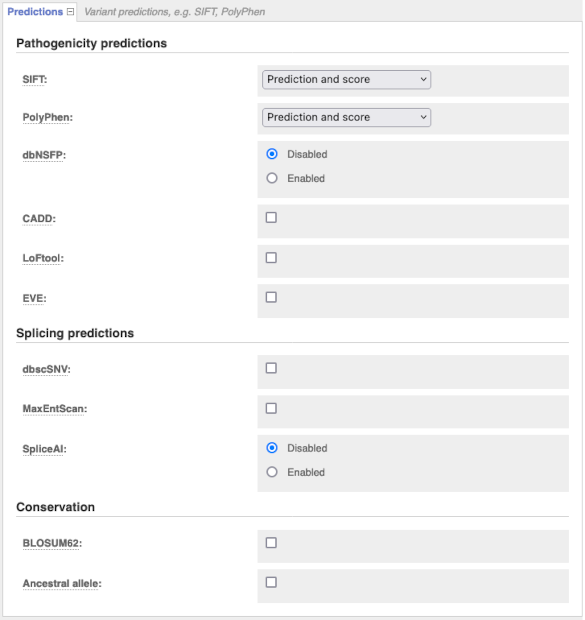
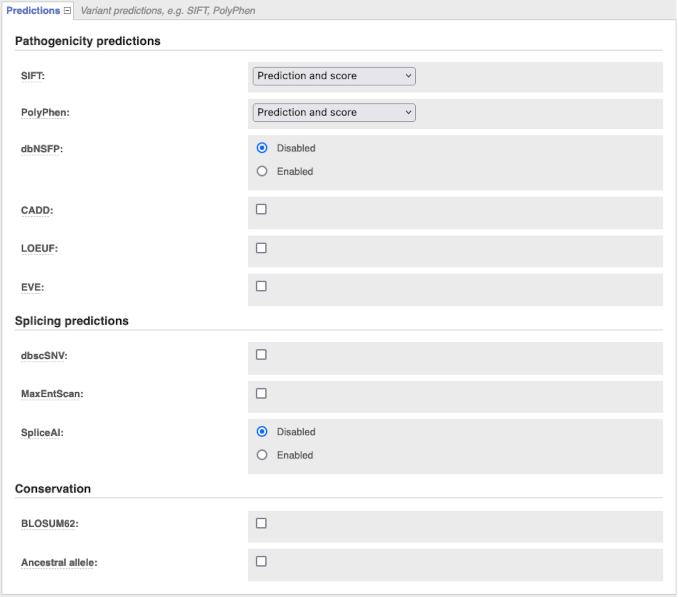
Replace plugin LoFtool by LOEUF (#634)
* Replace LoFtool by LOEUF

* Add LOEUF options

* LOEUF point to grch38 file

* Remove loftool from vep results

* Update image

* Match LOEUF scores by transcript

* Match by gene

* update image to include missing polyphen

diff --git a/docs/htdocs/info/docs/tools/vep/script/vep_plugins.html b/docs/htdocs/info/docs/tools/vep/script/vep_plugins.html
@@ -108,7 +108,7 @@
 <tr class="bg2 plugin_row" data-category="variant_data"><td><div style="font-weight:bold"><a rel="external" href="https://github.com/Ensembl/VEP_plugins/blob/release/[[SPECIESDEFS::ENSEMBL_VERSION]]/LD.pm">LD</a></div><div style="margin-top:6px"><small>Linkage Disequilibrium</small></div></td><td><p>This is a plugin for the Ensembl Variant Effect Predictor (VEP) that<br />finds variants in linkage disequilibrium with any overlapping existing <br />variants from the Ensembl variation databases. You can configure the <br />population used to calculate the r2 value, and the r2 cutoff used by <br />passing arguments to the plugin via the VEP command line (separated <br />by commas). This plugin adds a single new entry to the Extra column <br />with a comma-separated list of linked variant IDs and the associated <br />r2 values, e.g.: ... <a class="button" href="#ld" style="padding:3px 8px 0px 8px !important;height:18px" onclick="show_hide('ld');" id="a_ld">more</a></p><div id="div_ld" style="display:none;"><p>LinkedVariants=rs123:0.879,rs234:0.943</p><p>If no arguments are supplied, the default population used is the CEU<br />sample from the 1000 Genomes Project phase 3, and the default r2<br />cutoff used is 0.8.</p><p>WARNING: Calculating LD is a relatively slow procedure, so this will <br />slow VEP down considerably when running on large numbers of<br />variants. Consider running vep followed by filter_vep to get a smaller<br />input set:</p><p><pre class="code sh_sh">   ./vep -i input.vcf -cache -vcf -o input_vep.vcf<br /></pre><pre class="code sh_sh">   ./filter_vep -i input_vep.vcf -filter "Consequence is missense_variant" > input_vep_filtered.vcf<br /></pre><pre class="code sh_sh">   ./vep -i input_vep_filtered.vcf -cache -plugin LD<br /></pre></p></div></td><td><div class="vdoc_dtype_count" style="float:left;padding:2px 6px;cursor:default;background-color:#B22222">Variant data</div></td><td>-</td><td>Ensembl</td></tr>
 <tr class="bg1 plugin_row" data-category="look_up"><td><div style="font-weight:bold"><a rel="external" href="https://github.com/Ensembl/VEP_plugins/blob/release/[[SPECIESDEFS::ENSEMBL_VERSION]]/LocalID.pm">LocalID</a></div></td><td><p>The LocalID plugin allows you to use variant IDs as input without making a database connection. ... <a class="button" href="#localid" style="padding:3px 8px 0px 8px !important;height:18px" onclick="show_hide('localid');" id="a_localid">more</a></p><div id="div_localid" style="display:none;"><p>Requires sqlite3.</p><p>A local sqlite3 database is used to look up variant IDs; this is generated either from Ensembl's<br />public database (very slow, but includes synonyms), or from a VEP cache file (faster, excludes<br />synonyms).</p><p>NB this plugin is NOT compatible with the ensembl-tools variant_effect_predictor.pl version of VEP.</p></div></td><td><div class="vdoc_dtype_count" style="float:left;padding:2px 6px;cursor:default;background-color:#006400">Look up</div></td><td>-</td><td>Ensembl</td></tr>
 <tr class="bg2 plugin_row" data-category="pathogenicity_predictions"><td><div style="font-weight:bold"><a rel="external" href="https://github.com/Ensembl/VEP_plugins/blob/release/[[SPECIESDEFS::ENSEMBL_VERSION]]/LOEUF.pm">LOEUF</a></div></td><td><p>This is a plugin for the Ensembl Variant Effect Predictor (VEP) that<br />adds the LOEUF scores to VEP output. LOEUF stands for the "loss-of-function <br />observed/expected upper bound fraction."  ... <a class="button" href="#loeuf" style="padding:3px 8px 0px 8px !important;height:18px" onclick="show_hide('loeuf');" id="a_loeuf">more</a></p><div id="div_loeuf" style="display:none;"><p>The score can be added matching by either transcript or gene.<br />When matched by gene: <br />If multiple transcripts are available for a gene, the most severe score is reported.</p><p>NB: The plugin currently does not add the score for downstream_gene_variant and upstream_gene_variant </p><p>Please cite the LOEUF publication alongside the VEP if you use this resource:<br />https://www.ncbi.nlm.nih.gov/pmc/articles/PMC7334197/</p><p>LOEUF scores can be downloaded from<br />https://www.ncbi.nlm.nih.gov/pmc/articles/PMC7334197/bin/41586_2020_2308_MOESM4_ESM.zip</p><p>For GRCh37:</p><p>These files can be tabix-processed by:<br />Unzip 41586_2020_2308_MOESM4_ESM.zip<br />cd supplement<br />zcat supplementary_dataset_11_full_constraint_metrics.tsv.gz | (head -n 1 && tail -n +2  | sort -t$'\t' -k 76,76 -k 77,77n ) > loeuf_temp.tsv<br />sed '1s/.*/#&/' loeuf_temp.tsv > loeuf_dataset.tsv<br />bgzip loeuf_dataset.tsv<br />tabix -f -s 76 -b 77 -e 78 loeuf_dataset.tsv.gz</p><p>The tabix utility must be installed in your path to use this plugin.</p></div></td><td><div class="vdoc_dtype_count" style="float:left;padding:2px 6px;cursor:default;background-color:#1E90FF">Pathogenicity predictions</div></td><td><a href="https://metacpan.org/pod/Scalar::Util" rel="external">Scalar::Util</a> qw(looks_like_number)</td><td>Ensembl</td></tr>
-<tr class="bg1 plugin_row" data-category="pathogenicity_predictions"><td><div style="font-weight:bold"><a rel="external" href="https://github.com/Ensembl/VEP_plugins/blob/release/[[SPECIESDEFS::ENSEMBL_VERSION]]/LoFtool.pm">LoFtool</a></div><div style="margin-top:6px"><small>Loss-of-function</small></div></td><td><p>Add LoFtool scores to the VEP output. ... <a class="button" href="#loftool" style="padding:3px 8px 0px 8px !important;height:18px" onclick="show_hide('loftool');" id="a_loftool">more</a></p><div id="div_loftool" style="display:none;"><p>LoFtool provides a rank of genic intolerance and consequent<br />susceptibility to disease based on the ratio of Loss-of-function (LoF)<br />to synonymous mutations for each gene in 60,706 individuals from ExAC,<br />adjusting for the gene de novo mutation rate and evolutionary protein<br />conservation. The lower the LoFtool gene score percentile the most<br />intolerant is the gene to functional variation. For more details please see<br />(Fadista J et al. 2017), PMID:27563026.<br />The authors would like to thank the Exome Aggregation Consortium and<br />the groups that provided exome variant data for comparison. A full<br />list of contributing groups can be found at http://exac.broadinstitute.org/about.</p><p>The LoFtool_scores.txt file is found alongside the plugin in the<br />VEP_plugins GitHub repo.</p><p>To use another scores file, add it as a parameter i.e.</p><p><pre class="code sh_sh">  ./vep -i variants.vcf --plugin LoFtool,scores_file.txt<br /></pre></p></div></td><td><div class="vdoc_dtype_count" style="float:left;padding:2px 6px;cursor:default;background-color:#1E90FF">Pathogenicity predictions</div></td><td><a href="https://metacpan.org/pod/DBI" rel="external">DBI</a></td><td>Ensembl</td></tr>
+<tr class="bg1 plugin_row" data-category="pathogenicity_predictions"><td><div style="font-weight:bold"><a rel="external" href="https://github.com/Ensembl/VEP_plugins/blob/release/[[SPECIESDEFS::ENSEMBL_VERSION]]/LOEUF.pm">LOEUF</a></div><div style="margin-top:6px"><small>Loss-of-function</small></div></td><td><p>Add LOEUF scores to the VEP output. ... <a class="button" href="#loeuf" style="padding:3px 8px 0px 8px !important;height:18px" onclick="show_hide('loeuf');" id="a_loeuf">more</a></p><div id="div_loeuf" style="display:none;"><p>LOEUF stands for the 'loss-of-function observed/expected upper bound fraction'. This plugin adds constraint scores derived from gnomAD to VEP. For more details please see<br />(Karczewski KJ et al. 2020), PMID:32461654.<br /></p><p><pre class="code sh_sh">  ./vep -i variants.vcf --plugin LOEUF,file=loeuf_dataset.tsv.gz,match_by=gene<br /></pre></p></div></td><td><div class="vdoc_dtype_count" style="float:left;padding:2px 6px;cursor:default;background-color:#1E90FF">Pathogenicity predictions</div></td><td><a href="https://metacpan.org/pod/DBI" rel="external">DBI</a></td><td>Ensembl</td></tr>
 <tr class="bg2 plugin_row" data-category="variant_data"><td><div style="font-weight:bold"><a rel="external" href="https://github.com/Ensembl/VEP_plugins/blob/release/[[SPECIESDEFS::ENSEMBL_VERSION]]/LOVD.pm">LOVD</a></div><div style="margin-top:6px"><small>Leiden Open Variation Database</small></div></td><td><p>A VEP plugin that retrieves LOVD variation data from http://www.lovd.nl/. ... <a class="button" href="#lovd" style="padding:3px 8px 0px 8px !important;height:18px" onclick="show_hide('lovd');" id="a_lovd">more</a></p><div id="div_lovd" style="display:none;"><p>Please be aware that LOVD is a public resource of curated variants, therefore<br />please respect this resource and avoid intensive querying of their databases<br />using this plugin, as it will impact the availability of this resource for<br />others.</p></div></td><td><div class="vdoc_dtype_count" style="float:left;padding:2px 6px;cursor:default;background-color:#B22222">Variant data</div></td><td><a href="https://metacpan.org/pod/LWP::UserAgent" rel="external">LWP::UserAgent</a></td><td>Ensembl</td></tr>
 <tr class="bg1 plugin_row" data-category="phenotype_data_and_citations"><td><div style="font-weight:bold"><a rel="external" href="https://github.com/Ensembl/VEP_plugins/blob/release/[[SPECIESDEFS::ENSEMBL_VERSION]]/Mastermind.pm">Mastermind</a></div></td><td><p>This is a plugin for the Ensembl Variant Effect Predictor (VEP) that<br />uses the Mastermind Genomic Search Engine (https://www.genomenon.com/mastermind)<br />to report variants that have clinical evidence cited in the medical literature. <br />It is available for both GRCh37 and GRCh38. ... <a class="button" href="#mastermind" style="padding:3px 8px 0px 8px !important;height:18px" onclick="show_hide('mastermind');" id="a_mastermind">more</a></p><div id="div_mastermind" style="display:none;"><p>Please cite the Mastermind publication alongside the VEP if you use this resource:<br />https://www.frontiersin.org/article/10.3389/fgene.2020.577152</p><p>Running options:<br />The plugin has multiple parameters, the first one is expected to be the file name path <br />which can be followed by 3 optional flags.<br />Default: the plugin matches the citation data with the specific mutation.<br />Using first flag '1': returns the citations for all mutations/transcripts.   <br />Using the second flag '1': only returns the Mastermind variant identifier(s).<br />Using the third flag '1': also returns the Mastermind URL.</p><p>Output: <br />The output includes three unique counts 'MMCNT1, MMCNT2, MMCNT3' and one identifier 'MMID3'<br />to be used to build an URL which shows all articles from MMCNT3.</p><p>'MMCNT1' is the count of Mastermind articles with cDNA matches for a specific variant;<br />'MMCNT2' is the count of Mastermind articles with variants either explicitly matching at<br />the cDNA level or given only at protein level;<br />'MMCNT3' is the count of Mastermind articles including other DNA-level variants resulting<br />in the same amino acid change;<br />'MMID3' is the Mastermind variant identifier(s), as gene:key. Link to the Genomenon Mastermind Genomic Search Engine;</p><p>To build the URL, substitute the 'gene:key' in the following link with the value from MMID3:<br />https://mastermind.genomenon.com/detail?mutation=gene:key</p><p>If the third flag is used then the built URL is returned and it's identified by 'URL'.</p><p>More information can be found at: https://www.genomenon.com/cvr/</p><p>The following steps are necessary before running this plugin:</p><p>Download and Registry (free): <br />https://www.genomenon.com/cvr/ </p><p>GRCh37 VCF:<br />unzip mastermind_cited_variants_reference-XXXX.XX.XX-grch37-vcf.zip<br />bgzip mastermind_cited_variants_reference-XXXX.XX.XX-GRCh37-vcf<br />tabix -p vcf mastermind_cited_variants_reference-XXXX.XX.XX.GRCh37-vcf.gz</p><p>GRCh38 VCF:<br />unzip mastermind_cited_variants_reference-XXXX.XX.XX-grch38-vcf.zip<br />bgzip mastermind_cited_variants_reference-XXXX.XX.XX-GRCh38-vcf<br />tabix -p vcf mastermind_cited_variants_reference-XXXX.XX.XX.GRCh38-vcf.gz</p><p>The plugin can then be run as default:<br /><pre class="code sh_sh"> ./vep -i variations.vcf --plugin Mastermind,/path/to/mastermind_cited_variants_reference-XXXX.XX.XX.GRChXX-vcf.gz<br /></pre><br />or with an option to not filter by mutations (first flag): <br /><pre class="code sh_sh"> ./vep -i variations.vcf --plugin Mastermind,/path/to/mastermind_cited_variants_reference-XXXX.XX.XX.GRChXX-vcf.gz,1 <br /></pre><br />or with an option to only return 'MMID3' e.g. the Mastermind variant identifier as gene:key (second flag):<br /><pre class="code sh_sh"> ./vep -i variations.vcf --plugin Mastermind,/path/to/mastermind_cited_variants_reference-XXXX.XX.XX.GRChXX-vcf.gz,0,1<br /></pre><br />or with an option to also return the Mastermind URL (third flag):<br /><pre class="code sh_sh"> ./vep -i variations.vcf --plugin Mastermind,/path/to/mastermind_cited_variants_reference-XXXX.XX.XX.GRChXX-vcf.gz,0,0,1<br /></pre><br />Note: While running this plugin as default, i.e. filtering by mutation, if a variant doesn't affect <br />the protein sequence, the citation data can be appended to a transcript with different consequence.<br />Example<br />VEP: upstream_gene_variant<br />Mastermind: intronic<br />VEP output: var_1|1:154173185-154173187|C|ENSG00000143549|ENST00000368545|Transcript|upstream_gene_variant|<br />-|-|-|-|-|-|IMPACT=MODIFIER;DISTANCE=508;STRAND=-1;Mastermind_MMID3=TPM3:E62int;Mastermind_counts=1|1|1;</p></div></td><td><div class="vdoc_dtype_count" style="float:left;padding:2px 6px;cursor:default;background-color:#BB7722">Phenotype data and citations</div></td><td>-</td><td>Ensembl</td></tr>
 <tr class="bg2 plugin_row" data-category="splicing_predictions"><td><div style="font-weight:bold"><a rel="external" href="https://github.com/Ensembl/VEP_plugins/blob/release/[[SPECIESDEFS::ENSEMBL_VERSION]]/MaxEntScan.pm">MaxEntScan</a></div></td><td><p>This is a plugin for the Ensembl Variant Effect Predictor (VEP) that<br />runs MaxEntScan (http://hollywood.mit.edu/burgelab/maxent/Xmaxentscan_scoreseq.html)<br />to get splice site predictions. ... <a class="button" href="#maxentscan" style="padding:3px 8px 0px 8px !important;height:18px" onclick="show_hide('maxentscan');" id="a_maxentscan">more</a></p><div id="div_maxentscan" style="display:none;"><p>The plugin copies most of the code verbatim from the score5.pl and score3.pl<br />scripts provided in the MaxEntScan download. To run the plugin you must get and<br />unpack the archive from http://hollywood.mit.edu/burgelab/maxent/download/; the path<br />to this unpacked directory is then the param you pass to the --plugin flag.</p><p>The plugin executes the logic from one of the scripts depending on which<br />splice region the variant overlaps:</p><p>score5.pl : last 3 bases of exon    --> first 6 bases of intron<br />score3.pl : last 20 bases of intron --> first 3 bases of exon</p><p>The plugin reports the reference, alternate and difference (REF - ALT) maximum<br />entropy scores.</p><p>If 'SWA' is specified as a command-line argument, a sliding window algorithm<br />is applied to subsequences containing the reference and alternate alleles to<br />identify k-mers with the highest donor and acceptor splice site scores. To assess<br />the impact of variants, reference comparison scores are also provided. For SNVs,<br />the comparison scores are derived from sequence in the same frame as the highest<br />scoring k-mers containing the alternate allele. For all other variants, the<br />comparison scores are derived from the highest scoring k-mers containing the<br />reference allele. The difference between the reference comparison and alternate<br />scores (SWA_REF_COMP - SWA_ALT) are also provided.</p><p>If 'NCSS' is specified as a command-line argument, scores for the nearest<br />upstream and downstream canonical splice sites are also included.</p><p>By default, only scores are reported. Add 'verbose' to the list of command-<br />line arguments to include the sequence output associated with those scores.</p></div></td><td><div class="vdoc_dtype_count" style="float:left;padding:2px 6px;cursor:default;background-color:#FF0000">Splicing predictions</div></td><td><a href="https://metacpan.org/pod/Digest::MD5" rel="external">Digest::MD5</a> qw(md5_hex)</td><td>Ensembl</td></tr>

diff --git a/docs/htdocs/info/docs/tools/vep/online/input.html b/docs/htdocs/info/docs/tools/vep/online/input.html
@@ -405,11 +405,10 @@ enter your data and alter various options.</p>
                   href="https://github.com/Ensembl/VEP_plugins/blob/release/[[SPECIESDEFS::ENSEMBL_VERSION]]/dbNSFP.pm">dbNSFP</a>.</p>
                 </li>
                 
-                <li><b>LoFtool</b>
-                  <p>Provides a rank of genic intolerance and consequent susceptibility to 
-                  disease based on the ratio of Loss-of-function (LoF)to synonymous mutations.
+                <li><b>LOEUF</b>
+                  <p>LOEUF stands for the 'loss-of-function observed/expected upper bound fraction'. This plugin adds constraint scores derived from gnomAD to VEP. 
                   Equivalent to the VEP plugin <a rel="external" 
-                  href="https://github.com/Ensembl/VEP_plugins/blob/release/[[SPECIESDEFS::ENSEMBL_VERSION]]/LoFtool.pm">LoFtool</a>.</p>
+                  href="https://github.com/Ensembl/VEP_plugins/blob/release/[[SPECIESDEFS::ENSEMBL_VERSION]]/LOEUF.pm">LOEUF</a>.</p>
                 </li>
                 
                 <li><b>EVE</b>
